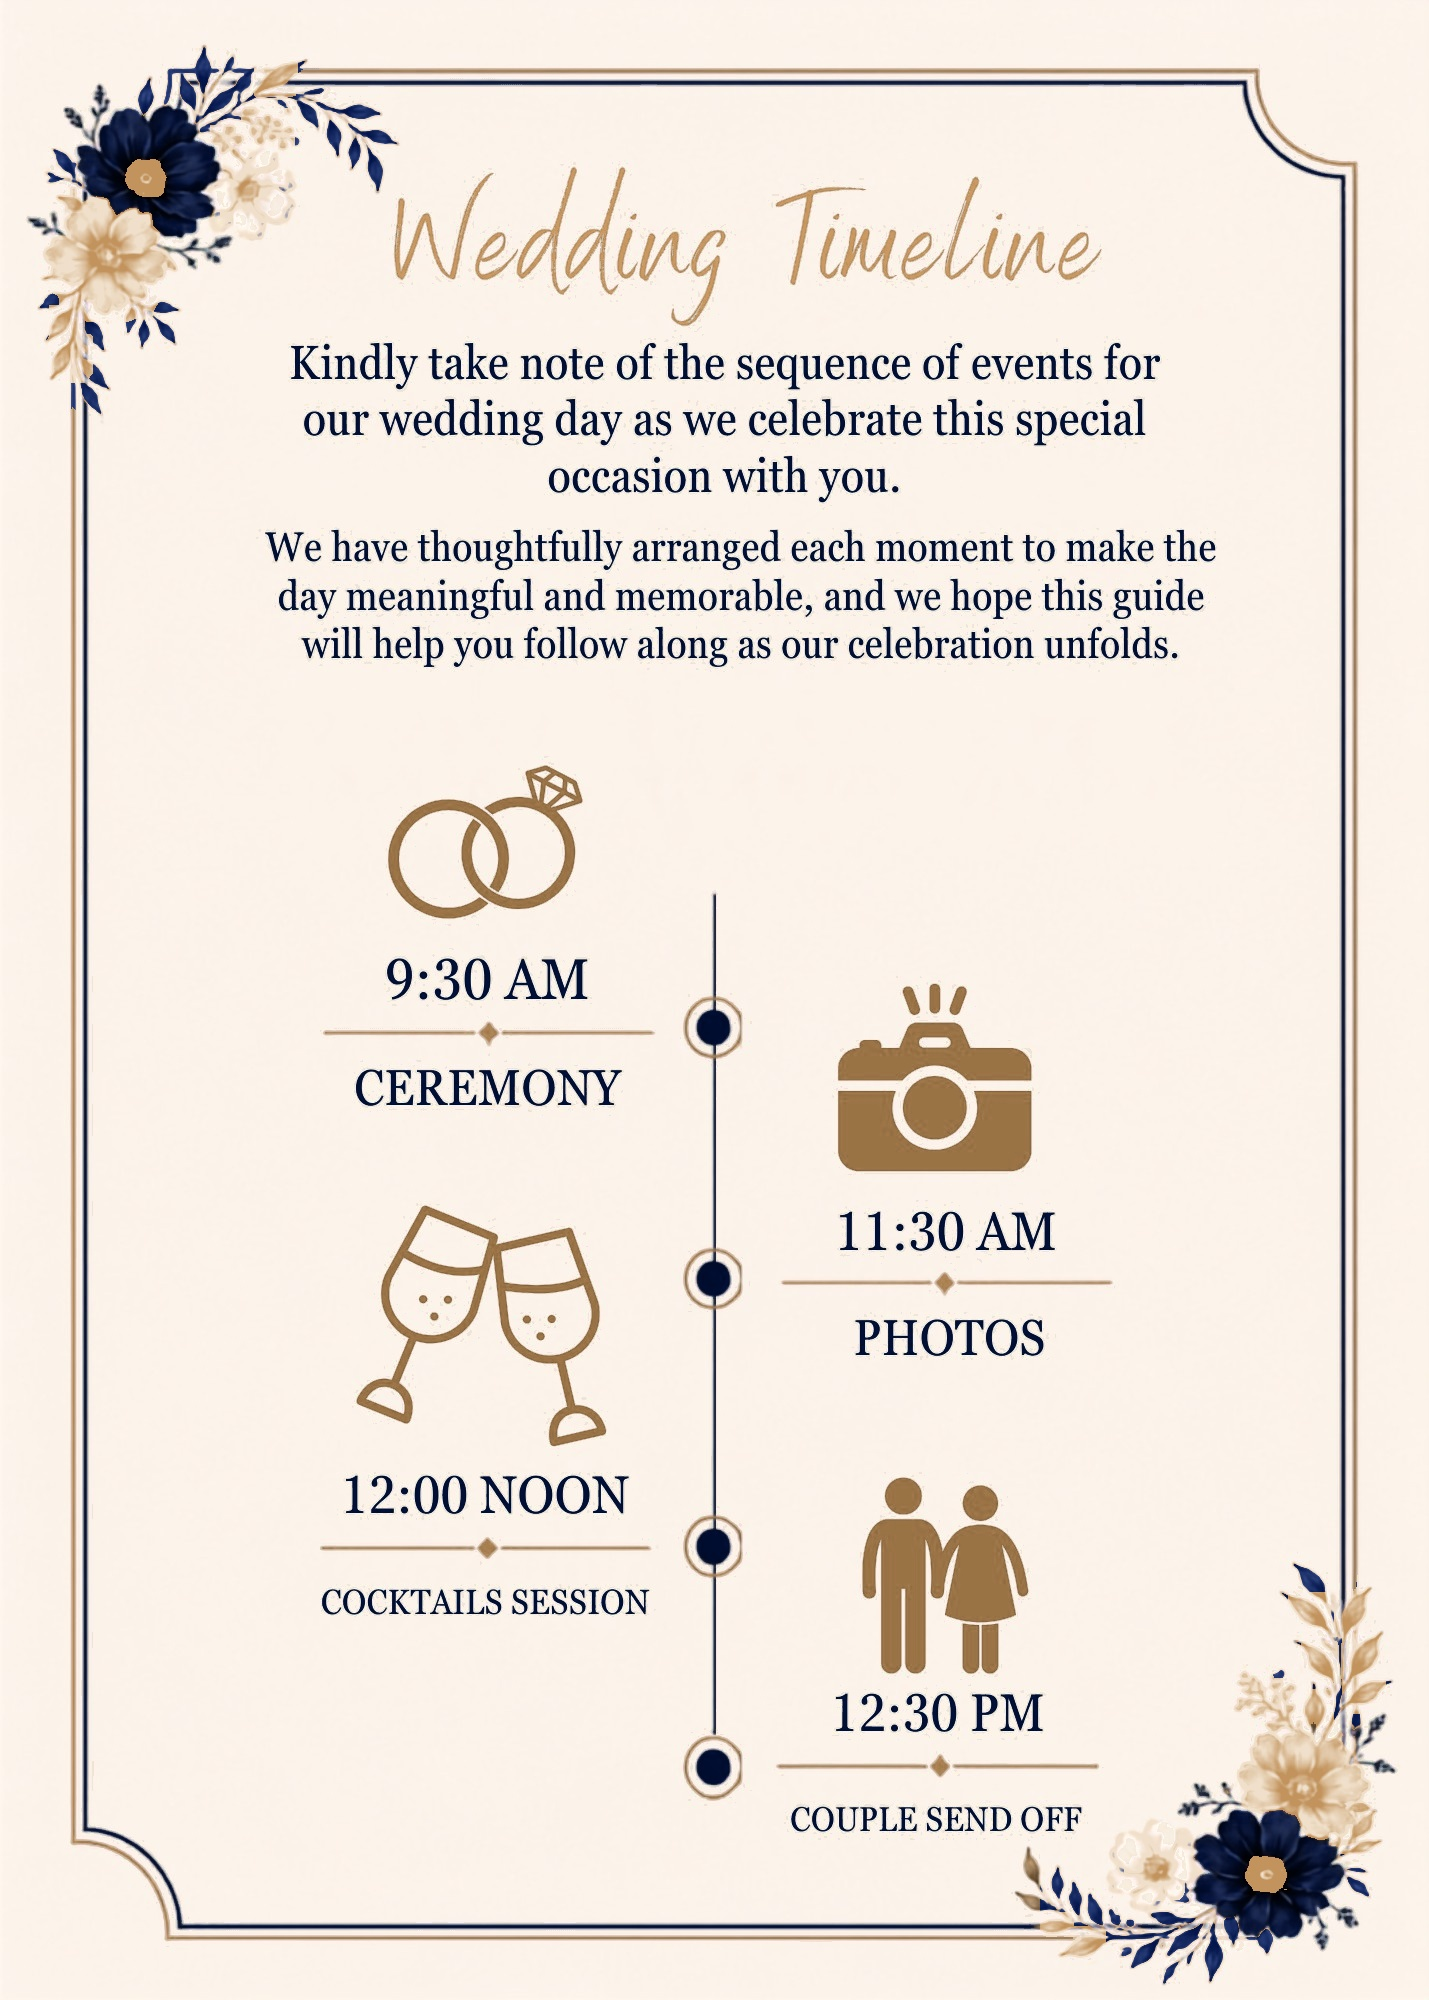
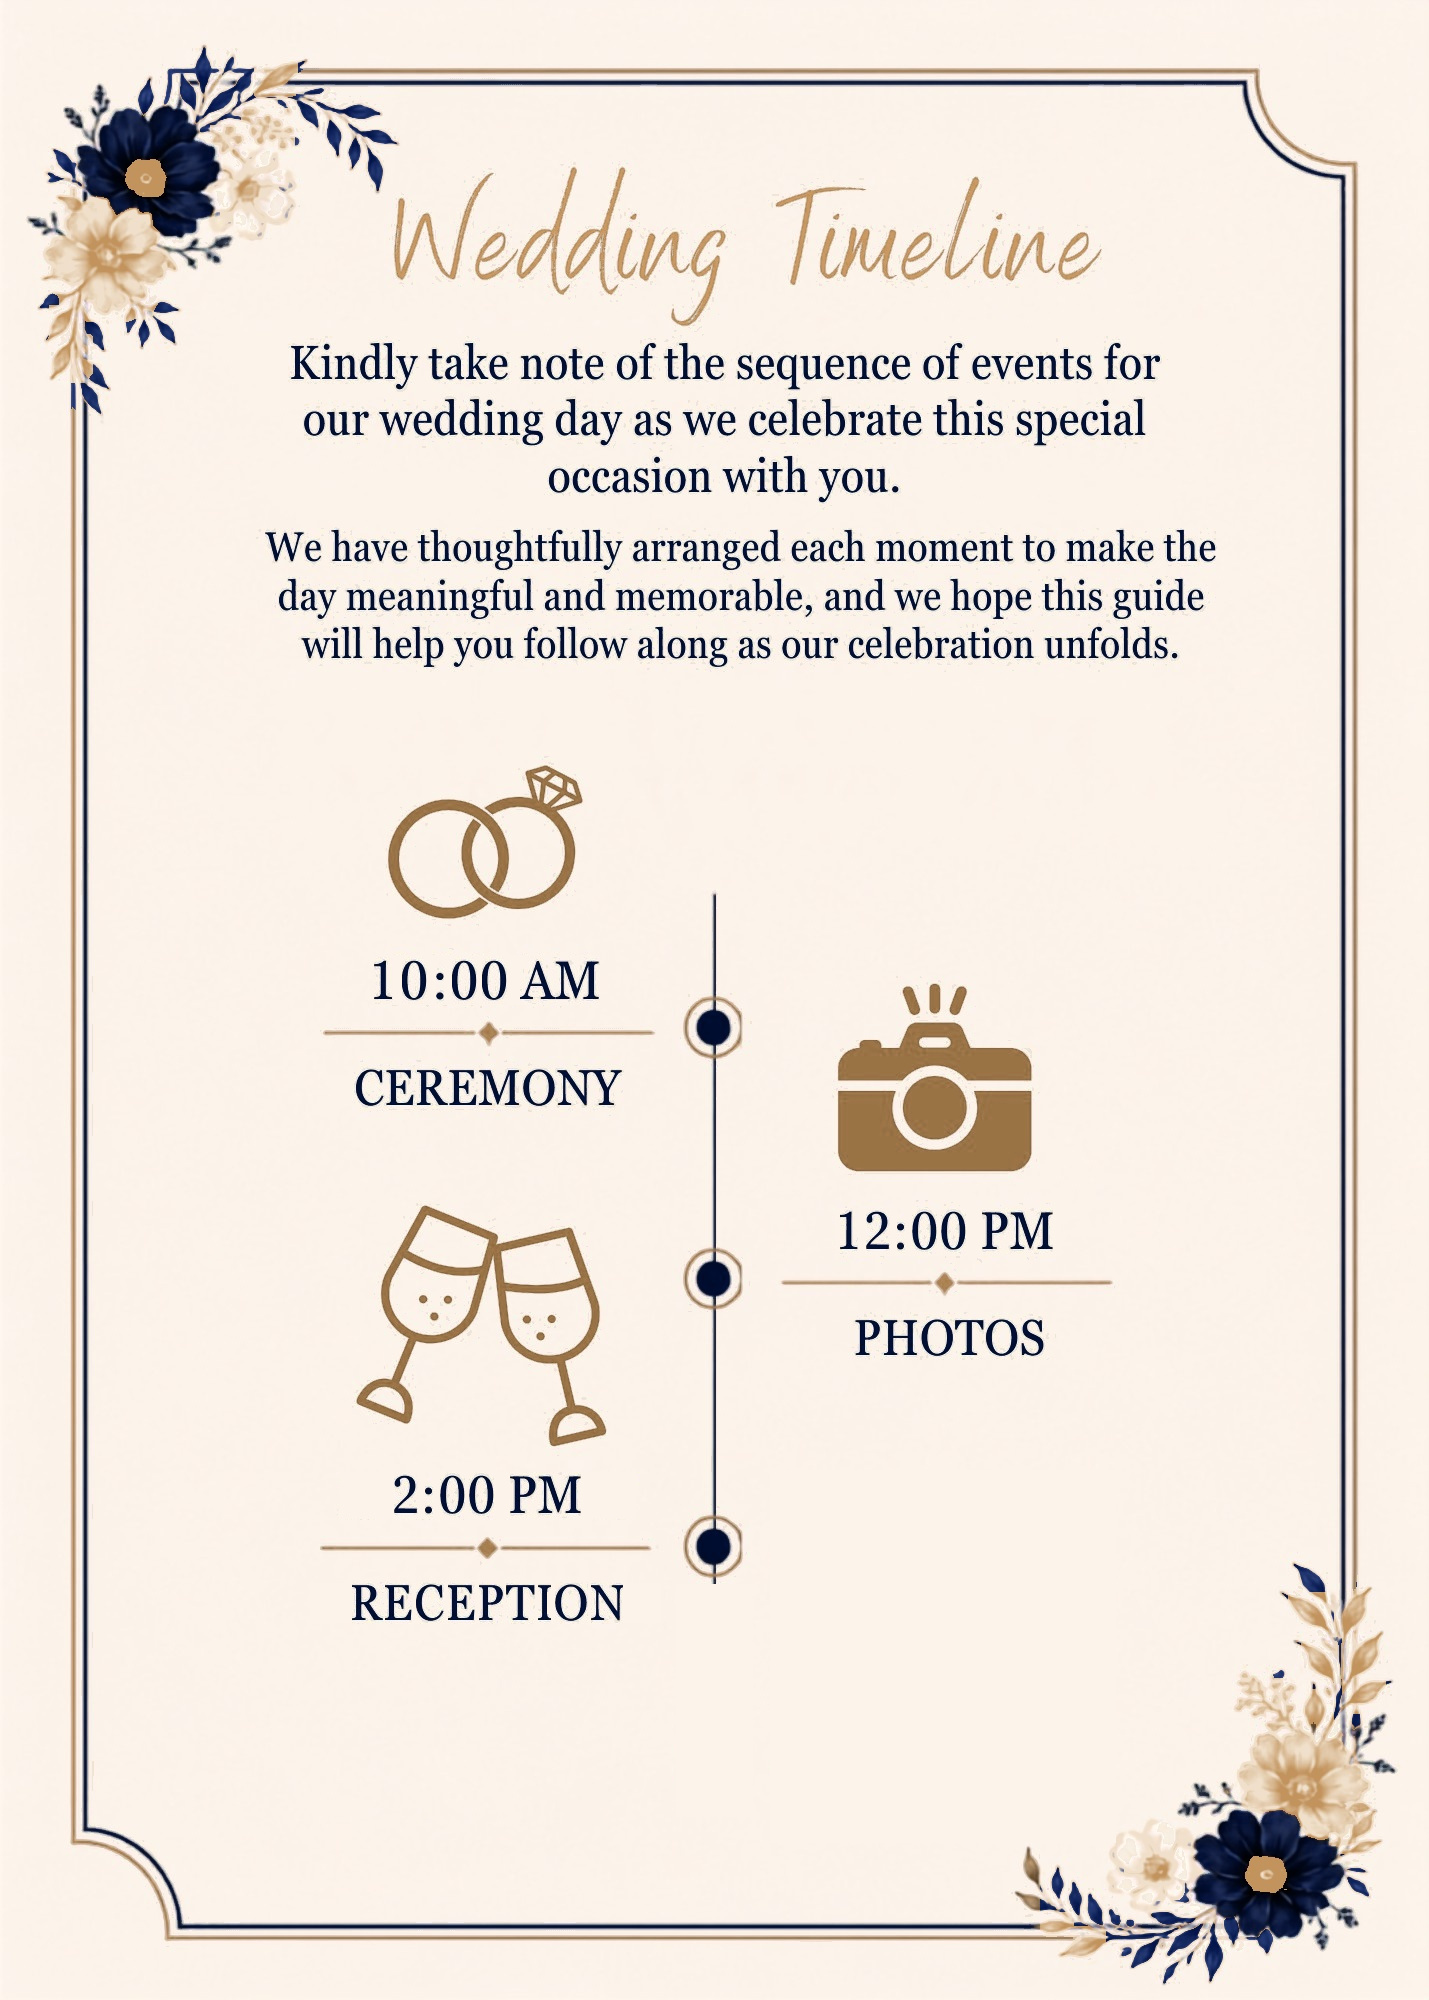
change

diff --git a/app/page.tsx b/app/page.tsx
@@ -27,7 +27,7 @@ const pages = [
     width: 1060,
     height: 1484,
     className: "art-page-2",
-    alt: "White Wedding invitation for Richmond and Elizabeth on 17th October 2026 at 9:30 AM at Mim Catholic Church.",
+    alt: "White Wedding invitation for Richmond and Elizabeth on 17th October 2026 at 10:00 AM at Mim Catholic Church.",
   },
   {
     number: 4,
@@ -35,7 +35,7 @@ const pages = [
     width: 1429,
     height: 2000,
     className: "art-page-3",
-    alt: "Wedding timeline: ceremony at 9:30 AM, photos at 11:30 AM, cocktails at noon, and couple send off at 12:30 PM.",
+    alt: "Wedding timeline: ceremony at 10:00 AM, photos at 12:00 PM, and reception at 2:00 PM.",
   },
   {
     number: 5,
@@ -135,12 +135,11 @@ export default function Home() {
         <p>
           Together with their families, Richmond and Elizabeth joyfully invite
           you to their white wedding on 17th October, 2026 at
-          9:30 AM at Mim Catholic Church. Cocktail to follow.
+          10:00 AM at Mim Catholic Church. Cocktail to follow.
         </p>
         <h2>Wedding Timeline</h2>
         <p>
-          Ceremony at 9:30 AM, photos at 11:30 AM, cocktails session at 12:00
-          noon, and couple send off at 12:30 PM.
+          Ceremony at 10:00 AM, photos at 12:00 PM, and reception at 2:00 PM.
         </p>
         <h2>Wedding Details</h2>
         <p>

diff --git a/README.md b/README.md
@@ -1,6 +1,6 @@
 # Elmond26 Wedding Invitation
 
-Richmond and Elizabeth's **White Wedding** invitation for **17 October 2026**, 9:30 AM,
+Richmond and Elizabeth's **White Wedding** invitation for **17 October 2026**, 10:00 AM,
 at **Mim Catholic Church**. Hashtag: **#Elmond26**.
 
 Built with React, TypeScript, and vinext/Vite. Includes the invitation artwork,
